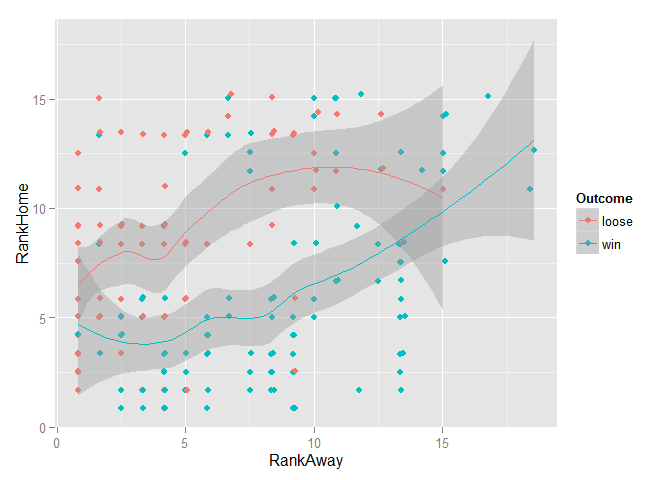
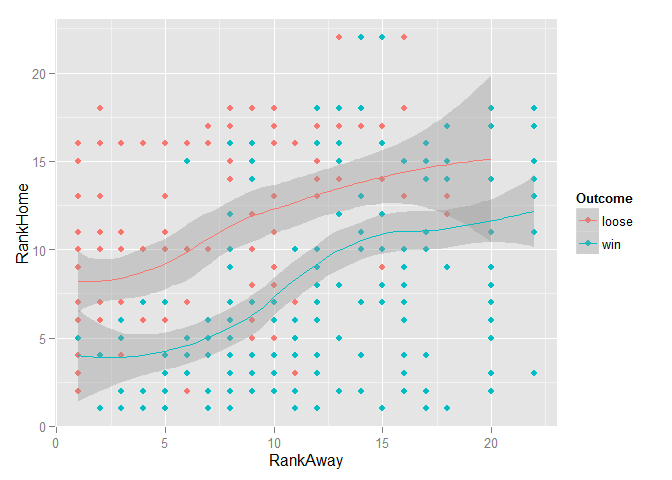
changed how

diff --git a/rwcpredictor_app/templates/how.html b/rwcpredictor_app/templates/how.html
@@ -35,7 +35,6 @@
 	<h4 class="date"><em>08 September 2015</em></h4>
 	</div>
 
-
 	<p>For the sake of brevity, not all the relevant data and code are displayed in this post but can rather be found <a href="https://github.com/arnupretorius/RWCPrediction" title="github rwcPrediction">here</a>.</p>
 	<div id="introduction" class="section level1">
 	<h1>Introduction</h1>
@@ -57,6 +56,7 @@
 	<div id="getting-the-data" class="section level2">
 	<h2>Getting the data</h2>
 	<p>As with many machine learning undertakings the first step was to collect the data. I found a good source of rugby data at <a href="http://www.rugbydata.com/" title="Rugbydata">rugbydata.com</a>. For each of the 20 teams in the RWC I collected some general historical team statistics and past matches stretching back to the beginning of 2013 (shown below for South Africa).</p>
+
 	<p>
 		<img class="img img-responsive center-block" src="{{ STATIC_URL }}/static/how/getting.png" alt="getting the data" />
 	</p>
@@ -64,10 +64,13 @@
 	<p>Only the matches between teams that are actually going to compete in the tournament were kept. In addition, tied matches were discarded. The first reason for this is due to the fact that in rugby a tied match is a fairly rare occurrence. The second, is that I was more concerned with predicting a win or a loss, the outcomes most fans care about, rather than also being able to predict match ties.</p>
 	<p>As another data source I collected the rankings of each team as well as their recent change in rank from <a href="http://wrr.live555.com/" title="rankings">this site</a> (shown below).</p>
 
+
 	<p>
 		<img class="img img-responsive center-block" src="{{ STATIC_URL }}/static/how/world.png" alt="world rankings" />
 	</p>
+
 	<p>Finally, connected to team rankings are ranking points that I managed to find on a <a href="https://en.wikipedia.org/wiki/World_Rugby_Rankings" title="wiki">world rugby rankings</a> Wikipedia page.</p>
+
 	<p>
 			<img class="img img-responsive center-block" src="{{ STATIC_URL }}/static/how/wiki.png" alt="heatmap" />
 	</p>
@@ -78,12 +81,14 @@
 	<h2>Exploring the data</h2>
 	<p>Now that the data was in the bag, it was time to go explore! As a quick overview of the data I looked at a <a href="http://www.r-bloggers.com/using-r-correlation-heatmap-take-2/" title="corr heat map">heat map of the correlation</a> between all the variables.</p>
 	<pre class="r"><code># load data
-	data &lt;- read.csv(&quot;RWCData.csv&quot;)
+	data &lt;- readRDS(&quot;RWCData.rda&quot;)
 
-	# Correlation heat map of the training data
+	# Correlation heat map of the training dat
 	library(ggplot2)
 	library(reshape2)
-	dataCor &lt;- cbind(as.numeric(data[,1]), as.numeric(data[,2]), as.numeric(data[,3]), data[,-c(1,2,3)])
+	dataCor &lt;- data
+	dataCor &lt;- cbind(as.numeric(data[,1]), as.numeric(data[,2]), as.numeric(data[,3]),
+	                 as.numeric(data[,4]), as.numeric(data[,5]), data[,-c(1,2,3,4,5)])
 
 	colnames(dataCor) &lt;- colnames(data)
 	title &lt;- &quot;Rugby training data correlation heat map&quot;
@@ -93,34 +98,27 @@
 	                     , axis.ticks=element_blank())
 	corp &lt;- corp + ggtitle(title)
 	corp</code></pre>
-</div>
+
 <p>
 		<img class="img img-responsive center-block" src="{{ STATIC_URL }}/static/how/heat.png" alt="wikiworld rankings" />
 </p>
 
 <p>A dark blue square indicates a strong positive correlation between two variables and a dark red square a strong negative correlation. As I sort of expected many of the variables seemed to be correlated with each other (such as the average points scored against a team at home and the number of games the team lost at home). Nevertheless, in the first column of the heat map I was able find the degree of correlation between all the variables (indexed by the rows) with the outcome of the match. The rank of the home and away team seemed to be fairly correlated with the match outcome when compared to the other variables. So I took a closer look.</p>
-
 <pre class="r"><code>ggplot(data, aes(RankAway, RankHome, color=Outcome)) + geom_point() + geom_smooth()</code></pre>
 
 <p>
 		<img class="img img-responsive center-block" src="{{ STATIC_URL }}/static/how/plot.png" alt="plot" />
 </p>
-<p>Since the <em>Outcome</em> variable was coded to indicate whether the home team won or lost, I could clearly see that more winning matches were associated with the higher ranked teams playing at home. (It was also interesting to see my lack of data on poorly ranked teams.)</p>
+
+<p>Since the <em>Outcome</em> variable was coded to indicate whether the home team won or lost, I could clearly see that more winning matches were associated with higher ranked teams playing at home. After a little further exploration (not shown here), I had hope that at least some of the variables might have some discriminatory power when used in a model.</p>
 </div>
 <div id="model-selection" class="section level2">
 <h2>Model selection</h2>
-<p>I started off by splitting the data into a training and test set using the <a href="http://topepo.github.io/caret/index.html" title="caret">classification and regression training (caret) package</a> in R. This is an extremely powerful and handy package capable of performing many machine learning tasks from data pre-processing and splitting to model training, tuning and variable selection.</p>
-<pre class="r"><code># Load libraries
-library(caret)
-library(randomForest)
-
-# split data
-set.seed(123)
-trainIndex &lt;- createDataPartition(data[,1], p = .7,
-                                  list = FALSE,
-                                  times = 1)
-train &lt;- data[trainIndex,]
-test  &lt;- data[-trainIndex,]</code></pre>
+<p>I started off by splitting the data into a training and test set. Since the aim is to predict matches happening in the world cup, which is taking place in the second half of 2015, I selected as my test set every second match from the start of 2015 until the most recent match. All the remaining matches were used for training.</p>
+<pre class="r"><code># create training and test set
+testIndex &lt;- seq(360,400,2)
+train &lt;- data[-testIndex,]
+test &lt;- data[testIndex,]</code></pre>
 <p>Due to its general good performance, ease of training and amenability for parallel processing, like many others I chose the <a href="https://en.wikipedia.org/wiki/Random_forest" title="rf">Random Forest</a> (RF) classifier as a good place to start. A Random Forest for classification is an ensemble of <a href="https://en.wikipedia.org/wiki/Decision_tree_learning" title="class trees">classification trees</a> each built using a bootstrap sample of the observations and only allowing a random subset of variables for selection at each node split. The final classification takes the form of a majority vote. For a great introduction to classification trees and Random Forests take a look at <a href="https://class.coursera.org/bigdataschool-001/wiki/Day_8" title="RF slides">these slide</a> by Thomas Fuchs. In addition, I also investigated the performance of <a href="https://www.google.co.za/url?sa=t&amp;rct=j&amp;q=&amp;esrc=s&amp;source=web&amp;cd=1&amp;cad=rja&amp;uact=8&amp;ved=0CCEQFjAAahUKEwiX5P3Zv_bHAhVD6RQKHXhQBhg&amp;url=http%3A%2F%2Fpeople.csail.mit.edu%2Fmenze%2Fpapers%2Fmenze_11_oblique.pdf&amp;usg=AFQjCNFp_luWSlWHAKcZ5FoGta_4WSZzKg&amp;sig2=h_oL4JqZyKAcopJTykMw-At" title="orf">Oblique Random Forests</a> (ORF).</p>
 <p>Normally the classification trees used in Random Forests split the variable space using orthogonal (perpendicular to the variable axis) splits, whereas Oblique Random Forests use some linear combination of the variables for splitting. Oblique trees are better suited for splitting a space consisting of many correlated variables, therefore I thought the Oblique Random Forest might perform better on the rugby data. Furthermore, many different linear classifiers can be used to produce the linear combinations used for splitting. I ended up using <a href="https://en.wikipedia.org/wiki/Partial_least_squares_regression" title="PLS">Partial Least Squares</a> (PLS).</p>
 <p>The tuning parameter associated with the Random Forest and Oblique Random Forest is the size of the subset of randomly selected variables used at each node split. The following code sets up a tuning grid consisting of several different sizes of this subset and specifies the method used to train the model, in this case 5-fold <a href="chrome-extension://oemmndcbldboiebfnladdacbdfmadadm/http://research.cs.tamu.edu/prism/lectures/iss/iss_l13.pdf" title="CV">cross-validation (CV)</a>.</p>
@@ -129,20 +127,29 @@ library(doParallel)
 cl &lt;- makeCluster(8)
 registerDoParallel(cl)
 
+# Load libraries
+library(caret)
+library(randomForest)
+
 # Model tuning grids
-rfGrid &lt;-  expand.grid(mtry = c(1, 7, 10, 15, 20, 25, 30, 35, 40, 45, 50))
+rfGrid &lt;-  expand.grid(mtry = c(1, 7, 14, 27, 40, 53))
 
 # Tune using 5-fold cross-validation
 fitControl &lt;- trainControl(method = &quot;cv&quot;,
                            number = 5,
                            repeats = 1)</code></pre>
-<p>To train the models I used the <em>train</em> function from the caret package with the <em>method</em> argument set to “rf” for Random Forests and “ORFpls” for Oblique Random Forest using PLS for node splits. Below is the code for a RF using 1000 trees (with extra code bits to store the time it took to train the model).</p>
+<p>To train the models I used the <em>train</em> function from the <a href="http://topepo.github.io/caret/index.html" title="caret">classification and regression training (caret) package</a> in R. This is an extremely powerful and handy package capable of performing many machine learning tasks from data pre-processing and splitting to model training, tuning and variable selection. To train a Random Forest set the <em>method</em> argument to “rf” and for an Oblique Random Forest with PLS node splits set it to “ORFpls”. Below is the code for a RF using 1000 trees (with extra code bits to store the time it took to train the model).</p>
 <pre class="r"><code># Random Forests
 start.time &lt;- Sys.time()
-set.seed(1)
-rf &lt;- train(x=train[,-1], y=train[,1], method=&quot;rf&quot;, ntree=1000,trControl=fitControl, tuneGrid=rfGrid, importance=TRUE)
+set.seed(2)
+rf &lt;- train(x=train[,-1], y=train[,1], method=&quot;rf&quot;, ntree=200, trControl=fitControl, tuneGrid=rfGrid, importance=TRUE)
 end.time &lt;- Sys.time()
 time.taken.rf &lt;- end.time - start.time</code></pre>
+
+
+
+
+
 
 
 <table class="table">
@@ -155,28 +162,33 @@ time.taken.rf &lt;- end.time - start.time</code></pre>
     <tbody>
       <tr>
         <td>Random Forest</td>
-        <td>8.58 secs</td>
+        <td>14.32 secs</td>
       </tr>
       <tr>
         <td>Oblique RF pls</td>
-        <td>26.19 mins</td>
+        <td>6.93 mins</td>
       </tr>
     </tbody>
   </table>
 
-<p>The training time was 8.58 seconds for the RF and 26.19 minutes for the ORF, meaning that the ORF took roughly 183 times longer to train! This is because at each split for ORF a PLS model is fitted instead of a less computationally intense orthogonal split used in RF. The plot below shows the CV accuracy of each model for a different subset size of randomly selected variables as well as standard deviation bounds.</p>
+	<p>The training time was 14.32 seconds for the RF and 6.93 minutes for the ORF, meaning that the ORF took roughly 29 times longer to train. This is because at each split for ORF a PLS model is fitted instead of a less computationally intense orthogonal split used in RF. The plot below shows the CV accuracy of each model for a different subset size of randomly selected variables as well as standard deviation bounds.</p>
+
 
 <p>
 		<img class="img img-responsive center-block" src="{{ STATIC_URL }}/static/how/plot2.png" alt="plot" />
 </p>
 
-<p>Both models seemed to prefer small subset sizes (for the RF 7 and ORF 10) with the ORF outperforming the RF when the subset sizes were optimal for each model. However, the accuracy computed in this way (only using the training data) is not a true reflection of the models ability to generalise to unseen data. So to get a better idea of the performance of the models I plotted an <a href="https://en.wikipedia.org/wiki/Receiver_operating_characteristic" title="ROC curve">ROC</a> curve.</p>
+<p>The optimal subset size for the RF was 1 and the ORF 1 with the RF outperforming the ORF when the subset sizes were optimal for each model. However, the accuracy computed in this way (only using the training data) is not a true reflection of the models ability to generalize to unseen data. So to get a better idea of the performance of the models I plotted an <a href="https://en.wikipedia.org/wiki/Receiver_operating_characteristic" title="ROC curve">ROC</a> curve.</p>
 
 <p>
 		<img class="img img-responsive center-block" src="{{ STATIC_URL }}/static/how/roc.png" alt="roc curve" />
 </p>
 
-<p>RF and ORF both produce <a href="https://en.wikipedia.org/wiki/Posterior_probability" title="post probs">posterior (after the data has been taken into account) probabilities</a> for observations to belong to a certain class. In a binary case, such as whether a team is going to loose or win a match, a threshold can be set (say 0.5) and if the posterior probability is above this threshold we classify to the “win”&quot; class, otherwise if it is below the threshold we classify to the “loose” class. The ROC curve shows the <a href="https://en.wikipedia.org/wiki/Sensitivity_and_specificity" title="FPR/TPR">false positive rate</a> (fraction of matches a team wins incorrectly classified as a loss) and <a href="https://en.wikipedia.org/wiki/Sensitivity_and_specificity" title="FPR/TPR">true positive rate</a> (fraction of matches a team won correctly classified as a win) for a sequence of thresholds from 0 to 1. Simply put, the classifier with a corresponding ROC curve that most closely hugs the top left corner of the plot as it arcs from the bottom left to the top right is considered to have the highest predictive power. So the two models seemed to be fairly similar. It was interesting to note that if the threshold was simply set to zero, both models would’ve correctly predicted a team winning when they actually won around 40% of the time. Lastly, the hold out test set was used to obtain the test accuracy of each model, given below.</p>
+<p>RF and ORF both produce <a href="https://en.wikipedia.org/wiki/Posterior_probability" title="post probs">posterior (after the data has been taken into account) probabilities</a> for observations to belong to a certain class. In a binary case, such as whether a team is going to loose or win a match, a threshold can be set (say 0.5) and if the posterior probability is above this threshold we classify to the “win”&quot; class, otherwise if it is below the threshold we classify to the “loose” class. The ROC curve shows the <a href="https://en.wikipedia.org/wiki/Sensitivity_and_specificity" title="FPR/TPR">false positive rate</a> (fraction of matches a team wins incorrectly classified as a loss) and <a href="https://en.wikipedia.org/wiki/Sensitivity_and_specificity" title="FPR/TPR">true positive rate</a> (fraction of matches a team won correctly classified as a win) for a sequence of thresholds from 0 to 1. Simply put, the classifier with a corresponding ROC curve that most closely hugs the top left corner of the plot as it arcs from the bottom left to the top right is considered to have the highest predictive power. So the two models seemed to be fairly similar. Lastly, the hold out test set was used to obtain the test accuracy of each model, given below.</p>
+
+
+
+
 
 <table class="table">
     <thead>
@@ -188,28 +200,28 @@ time.taken.rf &lt;- end.time - start.time</code></pre>
     <tbody>
       <tr>
         <td>Random Forest</td>
-        <td>74.14%</td>
+        <td>80.95%</td>
       </tr>
       <tr>
         <td>Oblique RF pls</td>
-        <td>75.86%</td>
+        <td>76.19%</td>
       </tr>
     </tbody>
   </table>
 
-<p>The ORF outperformed the RF by roughly 1.7%.</p>
-<p>So there it was, I had my model! Ready with my trained Oblique Random Forest at my side I was going to predict the future of the Rugby World Cup. But then I thought, wouldn’t it be really cool if I could find some way to do what I just did, but between each match incorporate the latest result from the tournament? In other words, collect the outcome of a match just after it took place, add it to my data, retrain the model and make a prediction for the next match with the new up to date model. On top of this, would it be possible to do it in some automated fashion? Then along came Domino!</p>
-</div>
-<div id="automating-the-process-using-domino-scheduling" class="section level2">
-<h2>Automating the process using Domino scheduling</h2>
-<p>I first heard of Domino from <a href="http://blog.dominodatalab.com/using-r-h2o-and-domino-for-a-kaggle-competition/" title="domBlog1">this</a> great blog post by <a href="http://www.jofaichow.co.uk/" title="jo">Jo-Fai Chow</a> which shows you how to use R, <a href="http://h2o.ai/" title="H2O">H2O</a> and Domino for a <a href="https://www.kaggle.com/" title="kaggle">Kaggle</a> competition. In a nutshell, Domino is an enterprise-grade platform that enables you to run, scale, share, and deploy analytical models. The post also includes a tutorial on how to get started with Domino, from getting up and running to running your first R program in the cloud! I would recommend this as a good place to start for anyone new to Domino. Alternatively, you can simply sign up <a href="https://app.dominodatalab.com/signup" title="signup">here</a> for a 14-day free trial and once your account has been created you can access a Tour page that will get you up and running in no time.</p>
-<p>So the first thing I needed to do to automate the process of data collection and model retraining was to upload my R scripts. First, the script (<em>GetRWCData.R</em>) responsible for getting and cleaning the data which outputs a .csv file containing the new data. Second, I had to upload the script (<em>RWCPrediction.R</em>) used to train the model on the outputted data, saving the model as a .rda file.</p>
+	<p>The RF outperformed the ORF by roughly 4.76%.</p>
+	<p>So there it was, I had my model! Ready with my trained Random Forest at my side I was going to predict the future of the Rugby World Cup. But then I thought, wouldn’t it be really cool if I could find some way to do what I just did, but between each match incorporate the latest result from the tournament? In other words, collect the outcome of a match just after it took place, add it to my data, retrain the model and make a prediction for the next match with the new up to date model. On top of this, would it be possible to do it in some automated fashion? Then along came Domino!</p>
+	</div>
+	<div id="automating-the-process-using-domino-scheduling" class="section level2">
+	<h2>Automating the process using Domino scheduling</h2>
+	<p>I first heard of Domino from <a href="http://blog.dominodatalab.com/using-r-h2o-and-domino-for-a-kaggle-competition/" title="domBlog1">this</a> great blog post by <a href="http://www.jofaichow.co.uk/" title="jo">Jo-Fai Chow</a> which shows you how to use R, <a href="http://h2o.ai/" title="H2O">H2O</a> and Domino for a <a href="https://www.kaggle.com/" title="kaggle">Kaggle</a> competition. In a nutshell, Domino is an enterprise-grade platform that enables you to run, scale, share, and deploy analytical models. The post also includes a tutorial on how to get started with Domino, from getting up and running to running your first R program in the cloud! I would recommend this as a good place to start for anyone new to Domino. Alternatively, you can simply sign up <a href="https://app.dominodatalab.com/signup" title="signup">here</a> for a 14-day free trial and once your account has been created you can access a Tour page that will get you up and running in no time.</p>
+	<p>So the first thing I needed to do to automate the process of data collection and model retraining was to upload my R scripts. First, the script (<em>GetRWCData.R</em>) responsible for getting and cleaning the data which outputs a .csv file containing the new data. Second, I had to upload the script (<em>RWCPrediction.R</em>) used to train the model on the outputted data, saving the model as a .rda file.</p>
 
 <p>
 		<img class="img img-responsive center-block" src="{{ STATIC_URL }}/static/how/domino1.png" alt="domino" />
 </p>
 
-<p>As a last minute decision I decided to use the RF instead of the ORF because of the RF having a much sorter training time but still being a close contender regarding performance. Therefore the model training script <em>RWCPrediction.R</em> contains the following code.</p>
+<p>Since I decided to use the RF instead of the ORF, the model training script <em>RWCPrediction.R</em> contains the following code.</p>
 <pre class="r"><code>### International Rugby world cup match prediction model ###
 
 # load libraries
@@ -217,9 +229,7 @@ library(caret)
 library(randomForest)
 
 # load data
-data &lt;- read.csv(&quot;RWCData.csv&quot;)
-cols &lt;- 4:ncol(data)
-data[,cols] = apply(data[,cols], 2, function(x) as.numeric(x))
+data &lt;- readRDS(&quot;RWCData.rda&quot;)
 
 # tune Grid
 rfGrid &lt;-  expand.grid(mtry = c(1, 7, 10, 15, 20, 25, 30, 35, 40, 45, 50))
@@ -242,6 +252,8 @@ saveRDS(model, file = &quot;RWC_Prediction_Model.rda&quot;)</code></pre>
 
 <p>After the data script had ran successfully, the model script can use the new data to retrain the model. So similarly, I inserted my script for training the model as the <em>command to run</em>, set the recurring time (an hour after the data had been collected) and clicked <em>schedule</em>. Note in this case I also ticked the <em>publish after complete</em> box which takes care of republishing the API (more about this later).</p>
 
+
+
 <p>
 		<img class="img img-responsive center-block" src="{{ STATIC_URL }}/static/how/domino2.png" alt="domino" />
 </p>
@@ -254,6 +266,7 @@ saveRDS(model, file = &quot;RWC_Prediction_Model.rda&quot;)</code></pre>
 <pre class="r"><code>## Load Library
 library(caret)
 library(randomForest)
+library(lubridate)
 
 ## Load Pre-trained model
 model &lt;- readRDS(file = &quot;RWC_Prediction_Model.rda&quot;)
@@ -263,42 +276,80 @@ teamStats &lt;- readRDS(file=&quot;teamStats.rda&quot;)
 rank &lt;- readRDS(&quot;rank.rda&quot;)
 rankScore &lt;- readRDS(&quot;rankScore.rda&quot;)
 rankChange &lt;- readRDS(&quot;rankChange.rda&quot;)
+teams &lt;- readRDS(&quot;teamNames.rda&quot;)
 
 ## Create a function to take team name inputs
 ## and then return a prediction for the match
 predict_match &lt;- function(homeTeam, awayTeam) {
 
-    teams &lt;- c(&quot;Namibia&quot;, &quot;South Africa&quot;, &quot;Argentina&quot;, &quot;Canada&quot;, &quot;United States&quot;,
-               &quot;Uruguay&quot;, &quot;Japan&quot;, &quot;England&quot;, &quot;France&quot;, &quot;Georgia&quot;, &quot;Ireland&quot;,
-               &quot;Italy&quot;, &quot;Romania&quot;, &quot;Scotland&quot;, &quot;Wales&quot;, &quot;Australia&quot;,
-               &quot;Fiji&quot;, &quot;New Zealand&quot;, &quot;Samoa&quot;, &quot;Tonga&quot;)
-
     homeIndex &lt;- which(teams == homeTeam)
     awayIndex &lt;- which(teams == awayTeam)
+
+    swap &lt;- awayTeam == &quot;England&quot;
+
+    if(swap){
+
+        temp &lt;- homeTeam
+        homeTeam &lt;- awayTeam
+        awayTeam &lt;- temp
+
+        temp &lt;- homeIndex
+        homeIndex &lt;- awayIndex
+        awayIndex &lt;- temp
+
+    }
+
 
     homeTeamStats &lt;- c(teamStats[[homeIndex]], rank[homeIndex], rankScore[homeIndex], rankChange[homeIndex])
     awayTeamStats &lt;- c(teamStats[[awayIndex]], rank[awayIndex], rankScore[awayIndex], rankChange[awayIndex])
 
+    date &lt;- Sys.Date()
     levelsx &lt;- levels(factor(teams))
     levelsy &lt;- levels(factor(c(&quot;loose&quot;,&quot;win&quot;)))
-    newCase &lt;- read.csv(&quot;newCase.csv&quot;)
-    levels(newCase[,1]) &lt;- levelsy
-    levels(newCase[,2]) &lt;- levelsx
-    levels(newCase[,3]) &lt;- levelsx
+    newCase &lt;- readRDS(&quot;newCase.rda&quot;)
     newCase[1,2] &lt;- homeTeam
     newCase[1,3] &lt;- awayTeam
-    newCase[1,4:27] &lt;- homeTeamStats
-    newCase[1,28:51] &lt;- awayTeamStats
+    newCase[1,4] &lt;- factor(month(date))
+    newCase[1,5] &lt;- factor(year(date))
+    newCase[1,6:29] &lt;- homeTeamStats
+    newCase[1,30:53] &lt;- awayTeamStats
 
+    ## Return the predicted class probabilities
+    if(swap){
+        y_probs &lt;- predict(model, newCase, type=&quot;prob&quot;)
+        return(as.character(rev(y_probs)))
+    } else if(homeTeam == &quot;England&quot;) {
+        y_probs &lt;- predict(model, newCase, type=&quot;prob&quot;)
+        return(as.character(y_probs))
+    } else {
+        y_probs1 &lt;- predict(model, newCase, type=&quot;prob&quot;)
 
-    ## Use the model for prediction
-    y_probs &lt;- predict(model, newCase, type=&quot;prob&quot;)
+        temp &lt;- homeIndex
+        homeIndex &lt;- awayIndex
+        awayIndex &lt;- temp
 
-    ## Return the predicted class
-    return(as.character(y_probs))
+        homeTeamStats &lt;- c(teamStats[[homeIndex]], rank[homeIndex], rankScore[homeIndex], rankChange[homeIndex])
+        awayTeamStats &lt;- c(teamStats[[awayIndex]], rank[awayIndex], rankScore[awayIndex], rankChange[awayIndex])
 
+        date &lt;- Sys.Date()
+        levelsx &lt;- levels(factor(teams))
+        levelsy &lt;- levels(factor(c(&quot;loose&quot;,&quot;win&quot;)))
+        newCase &lt;- readRDS(&quot;newCase.rda&quot;)
+        newCase[1,2] &lt;- homeTeam
+        newCase[1,3] &lt;- awayTeam
+        newCase[1,4] &lt;- factor(month(date))
+        newCase[1,5] &lt;- factor(year(date))
+        newCase[1,6:29] &lt;- homeTeamStats
+        newCase[1,30:53] &lt;- awayTeamStats
+
+        y_probs2 &lt;- predict(model, newCase, type=&quot;prob&quot;)
+        looseProb &lt;- round((y_probs1[1] + y_probs2[2])/2,4)
+        winProb &lt;- round((y_probs1[2] + y_probs2[1])/2,4)
+        return(as.character(c(looseProb, winProb)))
+    }
 }</code></pre>
-<p>The next step was to upload this script (in my case called <em>model_API.R</em>) to my Domino project.</p>
+<p>Now, one I had to remember was that within the data there was an implicit home team advantage and therefore the order of teams in the input string to the function was important. Since England is hosting the tournament, I set their predictions to always exibit this home team advantage. For all the other teams I made two predictions with both teams getting a turn at being the home team. The final probabilities are then the average over the two predictions. The next step was to upload this script (in my case called <em>model_API.R</em>) to my Domino project.</p>
+
 
 <p>
 		<img class="img img-responsive center-block" src="{{ STATIC_URL }}/static/how/domino3.png" alt="domino" />
@@ -349,6 +400,7 @@ print response_data['result']</code></pre>
 <p>If you are interested in seeing the model in action and getting your own prediction for a match, feel free to visit the <a href="http://rwcpredictor.herokuapp.com/" title="app">web app</a>.</p>
 <p>Finally, I would just like to thank <a href="https://twitter.com/DominoDataLab" title="nick">Nick</a> who suggested to me that I write this blog post. Maybe I will write a follow up post when the tournament is over when all the results are in. :)</p>
 <p>Until next time, all the best.</p>
+
 <p id="doug">Arnu</p>
 
 
